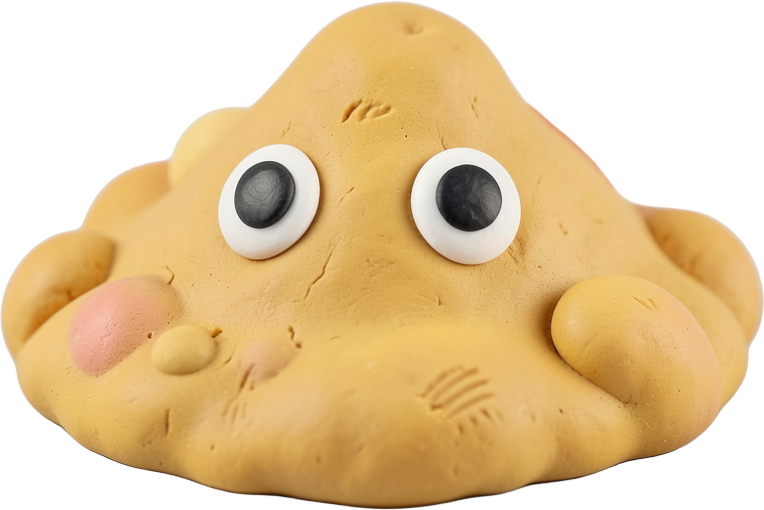
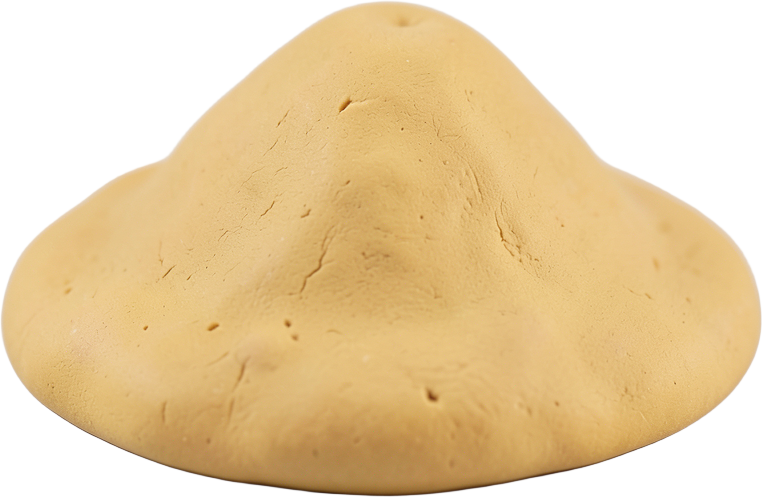
assets(097): karışıklık yaratan görsellerin düzeltmesi, cansızlarda yüz yok kuralı
- Kim yapar kutuları artık çocuk eli ve büyük eli (seslendirmeyle uyumlu).
- Halı hikâyesinin üç görseli yalnız kırmızı, mavi, sarı (soru: hangi renk yok → yeşil).
- Canlı/cansız turlarındaki taş, bulut, kum, su damlası, küflü ekmek ve cansız
  simgesi yüzsüz; cansız simgesi taş + oyuncak blok + kaşık.
- Çığ (hareketli kar) ve karlı dağ (durgun) artık ayırt edilebilir.
- Stil rehberi: cansız nesnelerde yüz yok; STYLE_SPRITE'tan göz cümlesi çıktı.
- docs/assets/yuzlu-cansizlar.md: taramada bulunan ~260 yüzlü cansız (yalnız
  karışıklık yaratırsa yenilenir).

diff --git a/asset-requests/097-gorsel-duzeltmeleri-1.md b/asset-requests/097-gorsel-duzeltmeleri-1.md
@@ -1,0 +1,160 @@
+# 097 · Görsel düzeltmeleri 1 (karışıklık yaratanlar)
+
+**Öncelik: YÜKSEK.** Sahibin bildirdiği ve taramada çıkan, öğretimi karıştıran görseller yeniden üretilir. Mevcut dosyaların yerine geçer (`generate.py --force`).
+
+- **"Kim yapar?" kutuları:** seslendirme "çocuk eline / büyük ele koy" diyor; kutularda el olmalı.
+- **Halı hikâyesi:** metin "kırmızı, mavi ve sarı" diyor, soru "Halıda hangi renk yok?" (cevap yeşil). Üç halı görselinde de yeşil olmamalı.
+- **Canlı/cansız soruları:** cansız nesnelerde (taş, bulut, kum, su damlası, küflü ekmek) ve "cansız" simgesinde yüz var. Yüzsüz olmalı.
+- **Çığ / karlı dağ** aynı eşleştirme turunda; birbirine çok benziyorlar. Çığ hareketli kar dalgası, karlı dağ durgun olmalı.
+
+Kural (sahip kararı, 2026-10-12): cansız nesnelere yüz eklenmez. Var olan yüzlü cansızlar (`docs/assets/yuzlu-cansizlar.md`) yalnız karışıklık yaratıyorsa yenilenir. Bu partide `STYLE_SPRITE`'ın "big expressive eyes" cümlesi çıkarıldı ve "It has no face" eklendi; insanlı sahnelerde göz yalnız insanlara verilir.
+
+## Özet tablo
+
+| # | Dosya yolu | Oran | Referans | Ne |
+|---|---|---|---|---|
+| 1 | `assets/images/items/simge/cocuk_gorevi.png` | 1:1 | — | Çocuk eli ("Senin görevin" kutusu). Seslendirme: "çocuk eline koy". |
+| 2 | `assets/images/items/simge/buyuk_gorevi.png` | 1:1 | — | Büyük eli ("Büyüklerin görevi" kutusu). Seslendirme: "büyük ele koy". |
+| 3 | `assets/images/items/esya/hali.png` | 1:1 | — | Halı: yalnız kırmızı, mavi ve sarı (yeşil yok). Soru: "Halıda hangi renk yok?" → yeşil. |
+| 4 | `assets/images/items/sahne/nine_hali.png` | 1:1 | — | Hikâye sayfası: Ninem halı dokur. Halı yalnız kırmızı, mavi ve sarı. |
+| 5 | `assets/images/items/sahne/aile_hali.png` | 1:1 | — | Hikâye sayfası: Bu halı bize ninemden yadigâr kalacak. Halı yalnız kırmızı, mavi ve sarı. |
+| 6 | `assets/images/items/doga/tas.png` | 1:1 | — | Taş (canlı/cansız sorusu). |
+| 7 | `assets/images/items/doga/bulut.png` | 1:1 | — | Bulut (canlı/cansız sorusu). |
+| 8 | `assets/images/items/doga/kum.png` | 1:1 | — | Kum (canlı/cansız sorusu). |
+| 9 | `assets/images/items/doga/su_damlasi.png` | 1:1 | — | Su damlası (canlı/cansız sorusu). |
+| 10 | `assets/images/items/simge/cansiz.png` | 1:1 | — | "Cansız" kutu simgesi; doga/tas ile karışmasın diye birkaç cansız nesne. |
+| 11 | `assets/images/items/fen/kuflu_ekmek.png` | 1:1 | — | Küflü ekmek (canlıları gruplayalım). |
+| 12 | `assets/images/items/afet/cig.png` | 1:1 | — | Çığ: karlı dağdan açıkça ayrılsın; hareket hâlinde kar kütlesi. |
+| 13 | `assets/images/items/neden/karli_dag.png` | 1:1 | — | Çok karlı dik dağ (çığın nedeni): durgun, sakin. |
+
+## Promptlar
+
+### 1. `assets/images/items/simge/cocuk_gorevi.png`
+
+- **Oran:** 1:1  
+- **Referans görsel:** yok  
+- **Açıklama:** Çocuk eli ("Senin görevin" kutusu). Seslendirme: "çocuk eline koy".
+
+```
+a small chubby child's hand, open palm facing the viewer, short little fingers, with the cuff of a bright yellow kid's sweater sleeve at the wrist, a hand only, nothing in it. It has no face, no eyes and no mouth. 3D claymation style, handcrafted plasticine toy look, soft rounded chunky shapes, subtle fingerprint texture, smooth matte clay surface, warm soft studio lighting, gentle ambient occlusion, bright cheerful candy-pastel colors, cute child-friendly design, single subject centered and fully visible, isolated on a plain solid light grey background (#EEEEEE), no ground shadow, no props unless described, no text, no letters, no numbers, no watermark.
+```
+
+### 2. `assets/images/items/simge/buyuk_gorevi.png`
+
+- **Oran:** 1:1  
+- **Referans görsel:** yok  
+- **Açıklama:** Büyük eli ("Büyüklerin görevi" kutusu). Seslendirme: "büyük ele koy".
+
+```
+a big grown-up's hand, open palm facing the viewer, long large fingers, with the cuff of a blue adult shirt sleeve and a simple wristwatch at the wrist, a hand only, nothing in it. It has no face, no eyes and no mouth. 3D claymation style, handcrafted plasticine toy look, soft rounded chunky shapes, subtle fingerprint texture, smooth matte clay surface, warm soft studio lighting, gentle ambient occlusion, bright cheerful candy-pastel colors, cute child-friendly design, single subject centered and fully visible, isolated on a plain solid light grey background (#EEEEEE), no ground shadow, no props unless described, no text, no letters, no numbers, no watermark.
+```
+
+### 3. `assets/images/items/esya/hali.png`
+
+- **Oran:** 1:1  
+- **Referans görsel:** yok  
+- **Açıklama:** Halı: yalnız kırmızı, mavi ve sarı (yeşil yok). Soru: "Halıda hangi renk yok?" → yeşil.
+
+```
+a small rectangular handwoven Turkish rug seen from the top, simple geometric pattern made ONLY of red, blue and yellow on a cream base, there is no green anywhere on the rug. It has no face, no eyes and no mouth. 3D claymation style, handcrafted plasticine toy look, soft rounded chunky shapes, subtle fingerprint texture, smooth matte clay surface, warm soft studio lighting, gentle ambient occlusion, bright cheerful candy-pastel colors, cute child-friendly design, single subject centered and fully visible, isolated on a plain solid light grey background (#EEEEEE), no ground shadow, no props unless described, no text, no letters, no numbers, no watermark.
+```
+
+### 4. `assets/images/items/sahne/nine_hali.png`
+
+- **Oran:** 1:1  
+- **Referans görsel:** yok  
+- **Açıklama:** Hikâye sayfası: Ninem halı dokur. Halı yalnız kırmızı, mavi ve sarı.
+
+```
+a small claymation vignette: a grandmother weaving a carpet on a wooden loom, the carpet uses ONLY red, blue and yellow yarn, there is no green anywhere in the carpet or the yarn. 3D claymation style, handcrafted plasticine toy look, soft rounded chunky shapes, subtle fingerprint texture, smooth matte clay surface, warm soft studio lighting, gentle ambient occlusion, bright cheerful candy-pastel colors, cute child-friendly design, big expressive eyes on people only, single subject centered and fully visible, isolated on a plain solid light grey background (#EEEEEE), no ground shadow, no props unless described, no text, no letters, no numbers, no watermark.
+```
+
+### 5. `assets/images/items/sahne/aile_hali.png`
+
+- **Oran:** 1:1  
+- **Referans görsel:** yok  
+- **Açıklama:** Hikâye sayfası: Bu halı bize ninemden yadigâr kalacak. Halı yalnız kırmızı, mavi ve sarı.
+
+```
+a small claymation vignette: a family sitting together on a carpet, the carpet pattern uses ONLY red, blue and yellow, there is no green anywhere on the carpet. 3D claymation style, handcrafted plasticine toy look, soft rounded chunky shapes, subtle fingerprint texture, smooth matte clay surface, warm soft studio lighting, gentle ambient occlusion, bright cheerful candy-pastel colors, cute child-friendly design, big expressive eyes on people only, single subject centered and fully visible, isolated on a plain solid light grey background (#EEEEEE), no ground shadow, no props unless described, no text, no letters, no numbers, no watermark.
+```
+
+### 6. `assets/images/items/doga/tas.png`
+
+- **Oran:** 1:1  
+- **Referans görsel:** yok  
+- **Açıklama:** Taş (canlı/cansız sorusu).
+
+```
+a smooth round plain grey pebble. It has no face, no eyes and no mouth. 3D claymation style, handcrafted plasticine toy look, soft rounded chunky shapes, subtle fingerprint texture, smooth matte clay surface, warm soft studio lighting, gentle ambient occlusion, bright cheerful candy-pastel colors, cute child-friendly design, single subject centered and fully visible, isolated on a plain solid light grey background (#EEEEEE), no ground shadow, no props unless described, no text, no letters, no numbers, no watermark.
+```
+
+### 7. `assets/images/items/doga/bulut.png`
+
+- **Oran:** 1:1  
+- **Referans görsel:** yok  
+- **Açıklama:** Bulut (canlı/cansız sorusu).
+
+```
+a fluffy plain white cloud. It has no face, no eyes and no mouth. 3D claymation style, handcrafted plasticine toy look, soft rounded chunky shapes, subtle fingerprint texture, smooth matte clay surface, warm soft studio lighting, gentle ambient occlusion, bright cheerful candy-pastel colors, cute child-friendly design, single subject centered and fully visible, isolated on a plain solid light grey background (#EEEEEE), no ground shadow, no props unless described, no text, no letters, no numbers, no watermark.
+```
+
+### 8. `assets/images/items/doga/kum.png`
+
+- **Oran:** 1:1  
+- **Referans görsel:** yok  
+- **Açıklama:** Kum (canlı/cansız sorusu).
+
+```
+a small pile of plain golden sand. It has no face, no eyes and no mouth. 3D claymation style, handcrafted plasticine toy look, soft rounded chunky shapes, subtle fingerprint texture, smooth matte clay surface, warm soft studio lighting, gentle ambient occlusion, bright cheerful candy-pastel colors, cute child-friendly design, single subject centered and fully visible, isolated on a plain solid light grey background (#EEEEEE), no ground shadow, no props unless described, no text, no letters, no numbers, no watermark.
+```
+
+### 9. `assets/images/items/doga/su_damlasi.png`
+
+- **Oran:** 1:1  
+- **Referans görsel:** yok  
+- **Açıklama:** Su damlası (canlı/cansız sorusu).
+
+```
+a big shiny plain blue water drop. It has no face, no eyes and no mouth. 3D claymation style, handcrafted plasticine toy look, soft rounded chunky shapes, subtle fingerprint texture, smooth matte clay surface, warm soft studio lighting, gentle ambient occlusion, bright cheerful candy-pastel colors, cute child-friendly design, single subject centered and fully visible, isolated on a plain solid light grey background (#EEEEEE), no ground shadow, no props unless described, no text, no letters, no numbers, no watermark.
+```
+
+### 10. `assets/images/items/simge/cansiz.png`
+
+- **Oran:** 1:1  
+- **Referans görsel:** yok  
+- **Açıklama:** "Cansız" kutu simgesi; doga/tas ile karışmasın diye birkaç cansız nesne.
+
+```
+a small group of three non-living things side by side: a plain grey pebble, a wooden toy block and a metal spoon, symbol of non-living things. None of them has a face, eyes or a mouth. 3D claymation style, handcrafted plasticine toy look, soft rounded chunky shapes, subtle fingerprint texture, smooth matte clay surface, warm soft studio lighting, gentle ambient occlusion, bright cheerful candy-pastel colors, cute child-friendly design, single subject centered and fully visible, isolated on a plain solid light grey background (#EEEEEE), no ground shadow, no props unless described, no text, no letters, no numbers, no watermark.
+```
+
+### 11. `assets/images/items/fen/kuflu_ekmek.png`
+
+- **Oran:** 1:1  
+- **Referans görsel:** yok  
+- **Açıklama:** Küflü ekmek (canlıları gruplayalım).
+
+```
+a slice of bread with soft fuzzy green-blue mold spots on one corner. It has no face, no eyes and no mouth. 3D claymation style, handcrafted plasticine toy look, soft rounded chunky shapes, subtle fingerprint texture, smooth matte clay surface, warm soft studio lighting, gentle ambient occlusion, bright cheerful candy-pastel colors, cute child-friendly design, single subject centered and fully visible, isolated on a plain solid light grey background (#EEEEEE), no ground shadow, no props unless described, no text, no letters, no numbers, no watermark.
+```
+
+### 12. `assets/images/items/afet/cig.png`
+
+- **Oran:** 1:1  
+- **Referans görsel:** yok  
+- **Açıklama:** Çığ: karlı dağdan açıkça ayrılsın; hareket hâlinde kar kütlesi.
+
+```
+a big white snow avalanche rushing down a steep mountain slope, a huge rolling wave of snow with a powdery snow cloud bursting behind it, strong sense of motion, a few small pine trees in its path. It has no face, no eyes and no mouth. 3D claymation style, handcrafted plasticine toy look, soft rounded chunky shapes, subtle fingerprint texture, smooth matte clay surface, warm soft studio lighting, gentle ambient occlusion, bright cheerful candy-pastel colors, cute child-friendly design, single subject centered and fully visible, isolated on a plain solid light grey background (#EEEEEE), no ground shadow, no props unless described, no text, no letters, no numbers, no watermark.
+```
+
+### 13. `assets/images/items/neden/karli_dag.png`
+
+- **Oran:** 1:1  
+- **Referans görsel:** yok  
+- **Açıklama:** Çok karlı dik dağ (çığın nedeni): durgun, sakin.
+
+```
+a calm still steep mountain covered with a very thick heavy layer of snow, bare rocky lower slopes, clear sky feeling, nothing moving. It has no face, no eyes and no mouth. 3D claymation style, handcrafted plasticine toy look, soft rounded chunky shapes, subtle fingerprint texture, smooth matte clay surface, warm soft studio lighting, gentle ambient occlusion, bright cheerful candy-pastel colors, cute child-friendly design, single subject centered and fully visible, isolated on a plain solid light grey background (#EEEEEE), no ground shadow, no props unless described, no text, no letters, no numbers, no watermark.
+```

diff --git a/docs/assets/yuzlu-cansizlar.md b/docs/assets/yuzlu-cansizlar.md
@@ -1,0 +1,40 @@
+# Yüzlü cansız görseller (tarama, 2026-10-12)
+
+Kural (`docs/assets/style-guide.md` §1.7): cansız nesnelerde yüz yok. Eski stil bloğundaki "big expressive eyes where applicable" cümlesi yüzünden aşağıdaki görsellerde göz ve/veya ağız var. Sahip kararıyla bunlar topluca yenilenmez; yalnız **karışıklık yarattığında** (ör. canlı/cansız ayrımı, birbirine benzeyen seçenekler) yenilenir. Yenilenenler ilgili partide işaretlenir.
+
+Tarama 1267 nesne görseli üzerinde temas sayfalarıyla yapıldı; "(?)" emin olunamayanlar.
+
+## 097'de yenilenenler
+`item.simge.cansiz`, `item.doga.tas`, `item.doga.bulut`, `item.doga.kum`, `item.doga.su_damlasi`, `item.fen.kuflu_ekmek`, `item.afet.cig`, `item.neden.karli_dag`, `item.esya.hali` (ayrıca el kutuları ve halı sahneleri; bkz. `asset-requests/097-gorsel-duzeltmeleri-1.md`).
+
+## Kalanlar (yüzlü, şimdilik dokunulmadı)
+
+- **afet:** deprem, heyelan, sel, yangin
+- **anlam / ataturk:** anlam.trafik_isigi (sahnedeki arabalar), ataturk.anitkabir, ataturk.cumhuriyet, ataturk.dogdugu_ev, ataturk.okul
+- **arac:** geometri_tahtasi, kareli_kagit, kasik, yapistirici
+- **atik:** cam_kavanoz, cam_sise, karton, muz_kabugu, pecete, pil, plastik_sise, yogurt_kabi
+- **bilgi / bilgi112:** bilgi.cizdigi_resim (güneş), bilgi.ev_adresi, bilgi.sevdigi_renk, bilgi.sifre (?), bilgi112.adres, bilgi112.kac_kisi (?), bilgi112.ne_oldu, bilgi112.oyuncak, bilgi112.yemek
+- **birlik / cevre:** birlik.ilgisiz, cevre.kitap_karis
+- **doga:** dag, deniz, gunes, irmak (?), pamuk, yagmur
+- **durum / duygu / ekran:** durum.g2_oyuncak_araba, ekran.yemek_programi (?); duygu.mutlu ve duygu.uzgun yüz simgesidir, kasıtlı
+- **esya:** cuzdan, duvar_saati, firca, gozluk (?), kasik, kutu, olta, oyuncak_kutusu, sandik, simit, sulama_kabi, tabak, tabaklar, tarak, telefon, utu, vazo, yastik, zil
+- **fen:** aycicegi (sahnedeki güneş), buz_erime, gunes, hilal_ay, limon, saksi_bitki, zil
+- **giysi:** atki, ceket, kazak, pijama
+- **gok / hava:** gok.ay, gok.gunes, gok.model; hava.dondurma, hava.kar, hava.kardan_adam (?), hava.plaj, hava.sicak_gunes
+- **hayal / hikaye:** hayal.ucan_hali, hikaye.g3_damla_yolculuk
+- **kap / kaynak / katki:** kap.bardak, kap.fincan, kap.kova, kap.su_sisesi; kaynak.afet_brosuru, kaynak.cizgi_film, kaynak.kutuphane, kaynak.lunapark, kaynak.market, kaynak.sanat_kitabi, kaynak.tbmm, kaynak.yemek_kitabi; katki.yangin_sondu, katki.yiyecek
+- **kutu / levha / meyve:** kutu.cam, levha.yaya_gecidi (?); meyve.armut, cilek, elma, karpuz, kiraz, limon, muz, nar, portakal
+- **milli / model / neden / nesne:** milli.okul_binasi, model.robot (?); neden.kamp_atesi, neden.saganak; nesne.cadir, davul, koli, konserve, mum, peynir
+- **okul / olay / olcu:** okul.canta, kalem, kitap, silgi; olay.kamp, olay.otobus_yolculugu, olay.yaz_tatili; olcu.kamyon, kapi, karpuz, kup, misket, otobus, santim_kup, terazi, un_cuvali
+- **onlem / oyuncak:** onlem.deprem_cantasi, onlem.dolap_sabitle; oyuncak.araba, balon_kirmizi, balon_mavi, balon_sari, bayrak_mavi, bayrak_yesil, robot (?), top, top_kucuk, topac
+- **renk / saglik:** renk.kirmizi_beyaz, renk.mavi_sari, renk.yesil_mor; saglik.macun_sur
+- **sahne:** beyaz_gemi, bos_bahce, copler_kucuk, ece_resim (güneş), gece (ay), kirli_dere, korunmus_tarih, temiz_sokak, topac_misket (?), yagmur_yagiyor, yatak_odasi, yikik_kale
+- **sanat:** baglama, davul, ebru, firca, flut, kukla (?), sahne_perdesi, tuval
+- **sebze / simetri:** sebze.havuc (?); simetri.bulut, cay_demligi, kalp, yildiz
+- **simge:** aksam, afet_oncesi, cop, eski, geri_donusum, gizli, gunes, hak, israf, kalp, resim, sabah, saglikli, sagliksiz, sorumluluk, soyle, tiyatro (?), toplum, yaz, yeni; simge.uygun ve uygun_degil yüz biçimli simgedir, kasıtlı
+- **sivi / sonuc / tasarruf / tasit:** sivi.bardak, kova, kupa, sise; sonuc.araclar_durur, gece_gorunur; tasarruf.musluk_acik; tasit.gemi
+- **tek:** ampul, asi, bilgisayar, buzdolabi (?), camasir_legen, eposta, gaz_lambasi, led, mektup, mum, otomobil, telefon_dev, telefon_gelecek, telefon_tuslu
+- **toplum / yapi / yer:** toplum.bos_sokak, tek_ev; yapi.kale, kapi, saat; yer.deniz_feneri, firin, kale, okul, park
+- **yiyecek / yon:** yiyecek.bal, cips, jole, mama, pasta, peynir, seker, sut, taze (?), yumurta; yon.gunes_batisi, gunes_dogusu, kutup_yildizi
+
+Anahtarların başına `item.` gelir (ör. `item.meyve.elma`).

diff --git a/docs/assets/style-guide.md b/docs/assets/style-guide.md
@@ -10,6 +10,7 @@ Bu rehber, Nano Banana (Gemini) ile üretilen tüm görsellerin aynı elden çı
 4. **En-boy oranı** her istek dosyasında belirtilir. Önerilen değerler: sprite 1:1, arka plan 16:9, dikey kart 3:4.
 5. **Çözünürlük:** sprite'lar en az 1024 px. Oyuna girmeden önce sprite'ların uzun kenarı 1024 px'e, arka planlarınki 2048 px'e küçültülebilir.
 6. **Küçük partiler.** Önce 2–3 görsel üretilir, stil kontrol edilir, ardından devam edilir.
+7. **Cansız nesnelerde yüz yok** (sahip kararı, 2026-10-12). Göz ve ağız yalnız insan ve hayvanlarda olur. Taş, bulut, eşya, yiyecek, araç ya da bina yüzlü çizilmez; özellikle canlı/cansız ayrımı öğreten turlarda bu kafa karıştırır. `STYLE_SPRITE` artık göz cümlesini içermiyor; cansız öğe promptlarına ayrıca "It has no face, no eyes and no mouth." eklenir (yalnız "no face" demek, göz isteyen bir stil cümlesiyle birlikte işe yaramadı). Daha önce üretilmiş yüzlü cansızlar `docs/assets/yuzlu-cansizlar.md` listesindedir; yalnız karışıklık yarattıklarında yenilenir.
 
 ## 2. Sabit stil blokları
 
@@ -18,8 +19,7 @@ Bu rehber, Nano Banana (Gemini) ile üretilen tüm görsellerin aynı elden çı
 3D claymation style, handcrafted plasticine toy look, soft rounded chunky shapes,
 subtle fingerprint texture, smooth matte clay surface, warm soft studio lighting,
 gentle ambient occlusion, bright cheerful candy-pastel colors, cute child-friendly
-design, big expressive eyes where applicable, single subject centered and fully
-visible, isolated on a plain solid light grey background (#EEEEEE), no ground
+design, single subject centered and fully visible, isolated on a plain solid light grey background (#EEEEEE), no ground
 shadow, no props unless described, no text, no letters, no numbers, no watermark.
 ```
 

diff --git a/asset-requests/README.md b/asset-requests/README.md
@@ -75,6 +75,7 @@ Yerel üretilen görsellerin kaynağı (model, tohum, prompt): `docs/assets/imag
 | 094 | Fen 3 çıkartmaları (20 `st.fen.*`) | Orta | ✅ Tamam (yerel klein; nesneler yüzsüz, sorunlu öğeler ikinci turda netleştirildi, 2026-10-06) |
 | 095 | Fen 3 seslendirmesi, ünite 1–4 (77 satır) | Orta | ⏳ Bekliyor |
 | 096 | Fen 3 seslendirmesi, ünite 5–8 + ortak kart sesleri (164 satır) | Orta | ⏳ Bekliyor |
+| 097 | Görsel düzeltmeleri 1: el kutuları, halı (kırmızı-mavi-sarı), canlı/cansız turlarındaki yüzlü cansızlar, çığ/karlı dağ (13 öğe) | Yüksek | ✅ Tamam (yerel klein, sahip seçti, 2026-10-12) |
 
 Önerilen sıra: 001 → 003 → 002 → 004 → 005 → 007 → 006 → 008 → 009 → 010 → 011 → 012 → 015 → 016 → 023 → 024 → 044 → 040 → 041 → 045 → 042 → 043 → 031 → 030 → 032 → 034 → 033 → 064 → 060 → 065 → 061 → 062 → 066 → 063 → 050 → 051 → 052 → 053 → 070 → 071 → 072 → 073 → 074 → 075 → 090 → 093 → 091 → 092 → 094 → 095 → 096. Hayat Bilgisi: 084 → 080 → 085 → 081 → 086 → 082 → 083 (önce seslendirme ve 1. sınıf, sonra üst sınıflar). Bilge karakter sayfası diğer bütün partilerin stil referansıdır.
 
